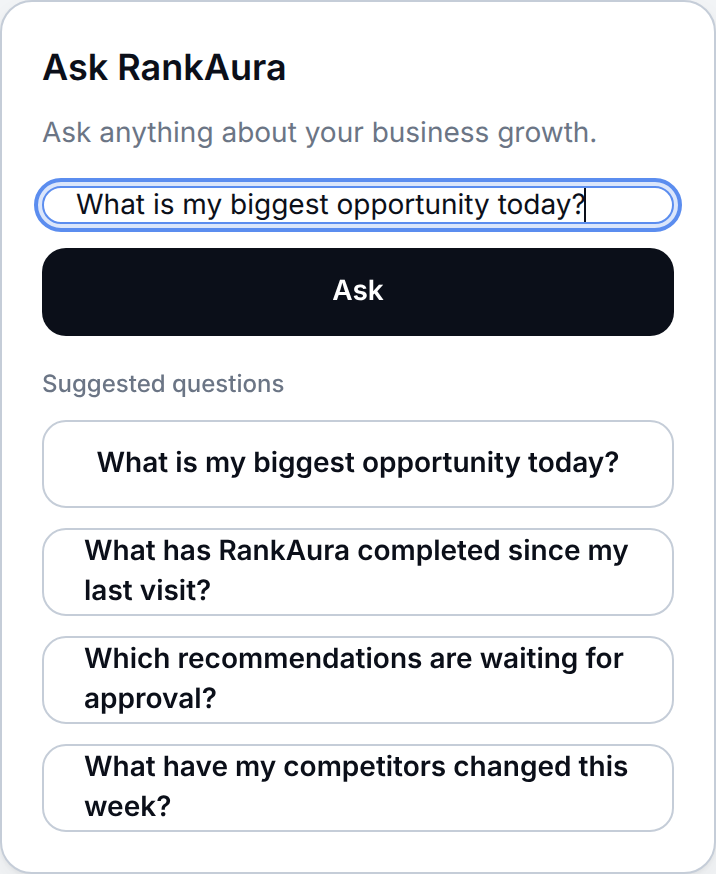
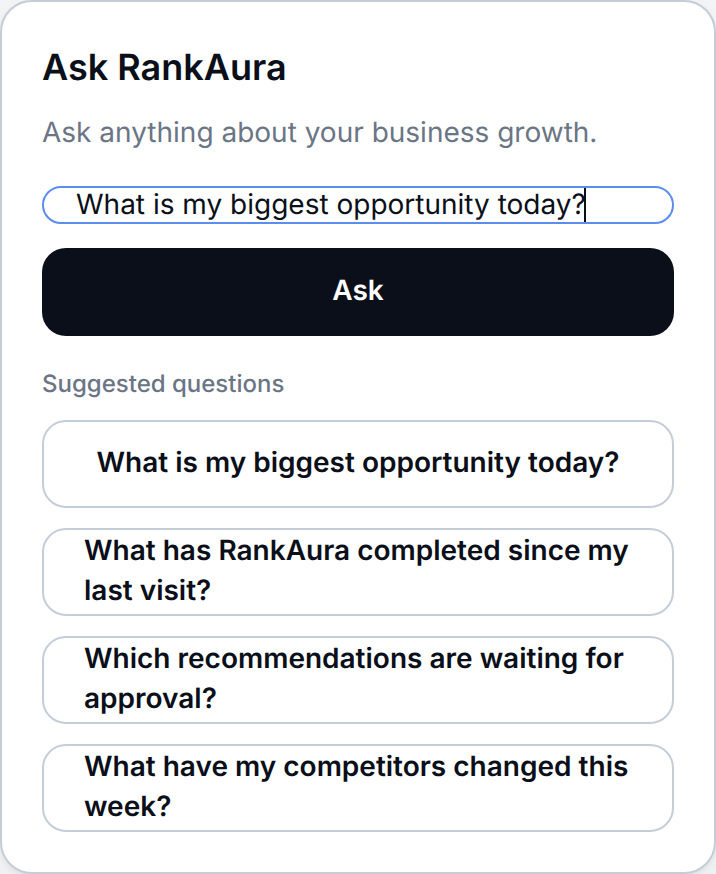
Fix Input focus to a single blue border (no double outline).
Shared .ra-input now uses one focus treatment only: 1px --ra-focus border
with outline and box-shadow forced off. Ask continues to import the same
Input, ButtonPrimary, and ButtonSecondary components as the rest of Workspace.

diff --git a/rankaura-web/app/globals.css b/rankaura-web/app/globals.css
@@ -91,6 +91,51 @@ body {
     border-radius: var(--ra-radius-xl);
     box-shadow: var(--ra-shadow);
   }
+
+  /* THE shared text input — one focus treatment only (blue border, no glow/outline). */
+  .ra-input {
+    height: var(--ra-control-h);
+    width: 100%;
+    border-radius: var(--ra-radius-md);
+    border: 1px solid var(--ra-border);
+    background: var(--ra-surface);
+    padding-left: 1rem;
+    padding-right: 1rem;
+    font-size: 0.875rem;
+    font-weight: 400;
+    line-height: 1.25rem;
+    color: var(--ra-ink);
+    transition:
+      border-color 150ms ease,
+      background-color 150ms ease;
+  }
+
+  .ra-input::placeholder {
+    color: var(--ra-placeholder);
+  }
+
+  .ra-input:hover:not(:disabled):not(:focus):not(:focus-visible) {
+    border-color: var(--ra-border-strong);
+  }
+
+  .ra-input:focus,
+  .ra-input:focus-visible {
+    outline: none !important;
+    outline-offset: 0 !important;
+    box-shadow: none !important;
+    border: 1px solid var(--ra-focus) !important;
+  }
+
+  .ra-input:disabled {
+    cursor: not-allowed;
+    border-color: var(--ra-border);
+    background: var(--ra-disabled-bg);
+    color: var(--ra-disabled-fg);
+  }
+
+  .ra-input:disabled::placeholder {
+    color: var(--ra-disabled-fg);
+  }
 }
 
 @media (prefers-reduced-motion: reduce) {

diff --git a/tests/rankaura-design-system.test.js b/tests/rankaura-design-system.test.js
@@ -58,6 +58,18 @@ assert.ok(fs.existsSync(path.join(uiDir, "TimelineItem.tsx")));
 assert.ok(fs.existsSync(path.join(uiDir, "GrowthCard.tsx")));
 assert.ok(fs.existsSync(path.join(uiDir, "RecommendationCard.tsx")));
 assert.ok(fs.existsSync(path.join(uiDir, "SuccessMark.tsx")));
+const inputUi = fs.readFileSync(path.join(uiDir, "Input.tsx"), "utf8");
+const inputCss = globals;
+assert.ok(askInput.includes('from "@/components/ui/ButtonPrimary"'));
+assert.ok(askInput.includes('from "@/components/ui/Input"'));
+assert.ok(askSuggestions.includes('from "@/components/ui/ButtonSecondary"'));
+assert.ok(inputUi.includes("ra-input"));
+assert.ok(inputCss.includes(".ra-input"));
+assert.ok(inputCss.includes("border: 1px solid var(--ra-focus)"));
+assert.ok(inputCss.includes("outline: none !important"));
+assert.ok(inputCss.includes("box-shadow: none !important"));
+assert.ok(!inputUi.includes("shadow-ra-focus"));
+assert.ok(!inputUi.includes("outline-ra-focus"));
 assert.ok(!askInput.includes("min-w-ra-ask"));
 assert.ok(!askInput.includes("min-w-["));
 assert.ok(!askCard.includes("accent"));

diff --git a/rankaura-web/components/ui/Input.tsx b/rankaura-web/components/ui/Input.tsx
@@ -1,9 +1,12 @@
 import type { InputHTMLAttributes } from "react";
 import { cn } from "@/utils/cn";
 
-/** THE one text input. */
-export const INPUT_CLASSNAME =
-  "h-ra-control w-full rounded-ra-md border border-ra-border bg-ra-surface px-4 text-sm font-normal text-ra-ink placeholder:text-ra-placeholder transition-[border-color,box-shadow,background-color] duration-150 hover:border-ra-border-strong focus-visible:border-ra-focus focus-visible:shadow-ra-focus focus-visible:outline focus-visible:outline-2 focus-visible:outline-offset-2 focus-visible:outline-ra-focus disabled:cursor-not-allowed disabled:border-ra-border disabled:bg-ra-disabled-bg disabled:text-ra-disabled-fg disabled:placeholder:text-ra-disabled-fg";
+/**
+ * THE one text input — styles live in `.ra-input` (globals.css).
+ * Focus: ONE treatment only — a single blue border.
+ * Never blue border + glow/outline together.
+ */
+export const INPUT_CLASSNAME = "ra-input";
 
 interface InputProps extends InputHTMLAttributes<HTMLInputElement> {
   className?: string;

diff --git a/docs/DESIGN_SYSTEM.md b/docs/DESIGN_SYSTEM.md
@@ -82,7 +82,7 @@
 | Token | Value | Usage |
 |-------|-------|--------|
 | `--ra-shadow` | `0 1px 2px rgba(11,15,25,0.05), 0 6px 18px rgba(11,15,25,0.06)` | Cards |
-| `--ra-shadow-focus` | `0 0 0 3px rgba(91,141,239,0.22)` | Soft focus glow (with ring) |
+| `--ra-shadow-focus` | `0 0 0 3px rgba(91,141,239,0.22)` | Reserved token — **not** used on inputs (inputs use a single blue border) |
 
 Inputs, badges, and chips: **no default shadow** — borders define structure.
 
@@ -107,7 +107,11 @@ Shared height (28px), padding, pill radius, medium weight, tinted fill + matchin
 
 ### TextInput / Input
 White, visible border, no default shadow, dark text, placeholder token.  
-Hover: stronger border. Focus: focus border + ring. Disabled: subtle fill + muted text.
+Hover: stronger border.  
+**Focus: ONE treatment only** — a single blue border (`--ra-focus`).  
+Never a blue glow + blue border. Never outline + border. Never two concentric strokes.  
+Implementation: shared `.ra-input` / `Input` component only.  
+Disabled: subtle fill + muted text.
 
 ### QuestionButton / QuestionChip
 **Alias of ButtonSecondary** (the outlined button). Same height, radius, border, typography, hover, focus, disabled. Layout-only helpers allowed (`w-full`, `text-left`) for multi-line suggested questions. Not a separate visual style.
@@ -122,7 +126,8 @@ Ask RankAura, Biggest Opportunity, Recent Wins, Growth Areas, and Recent Progres
 
 Every interactive control defines: default · hover · focus-visible · active/pressed · disabled.
 
-Focus-visible must be strong enough for keyboard users (2px outline + offset using `--ra-focus`).
+Buttons / links: focus-visible uses a single 2px outline + offset (`--ra-focus`).  
+Inputs: focus uses **one** treatment only — a single blue border. Never glow + border, never outline + border.
 
 ---
 

diff --git a/docs/DESIGN_TOKENS.md b/docs/DESIGN_TOKENS.md
@@ -61,7 +61,7 @@ See `docs/DESIGN_SYSTEM.md` for full component documentation.
 | Token | Value | Usage |
 |-------|-------|--------|
 | `--ra-shadow` | subtle dual layer | Cards only |
-| `--ra-shadow-focus` | soft blue glow | Focused inputs |
+| `--ra-shadow-focus` | soft blue glow | Reserved — inputs use a single blue border instead |
 
 Inputs / badges / chips: no default shadow.
 
